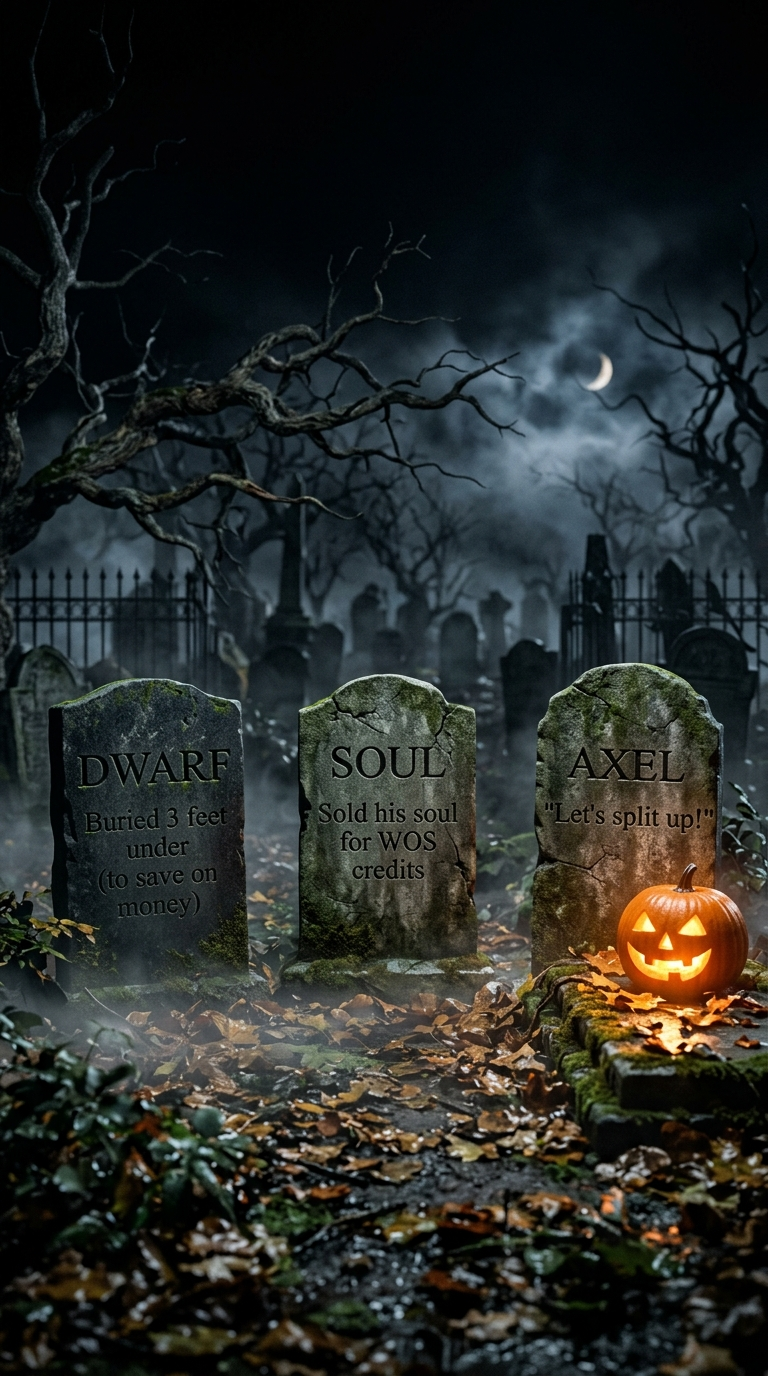
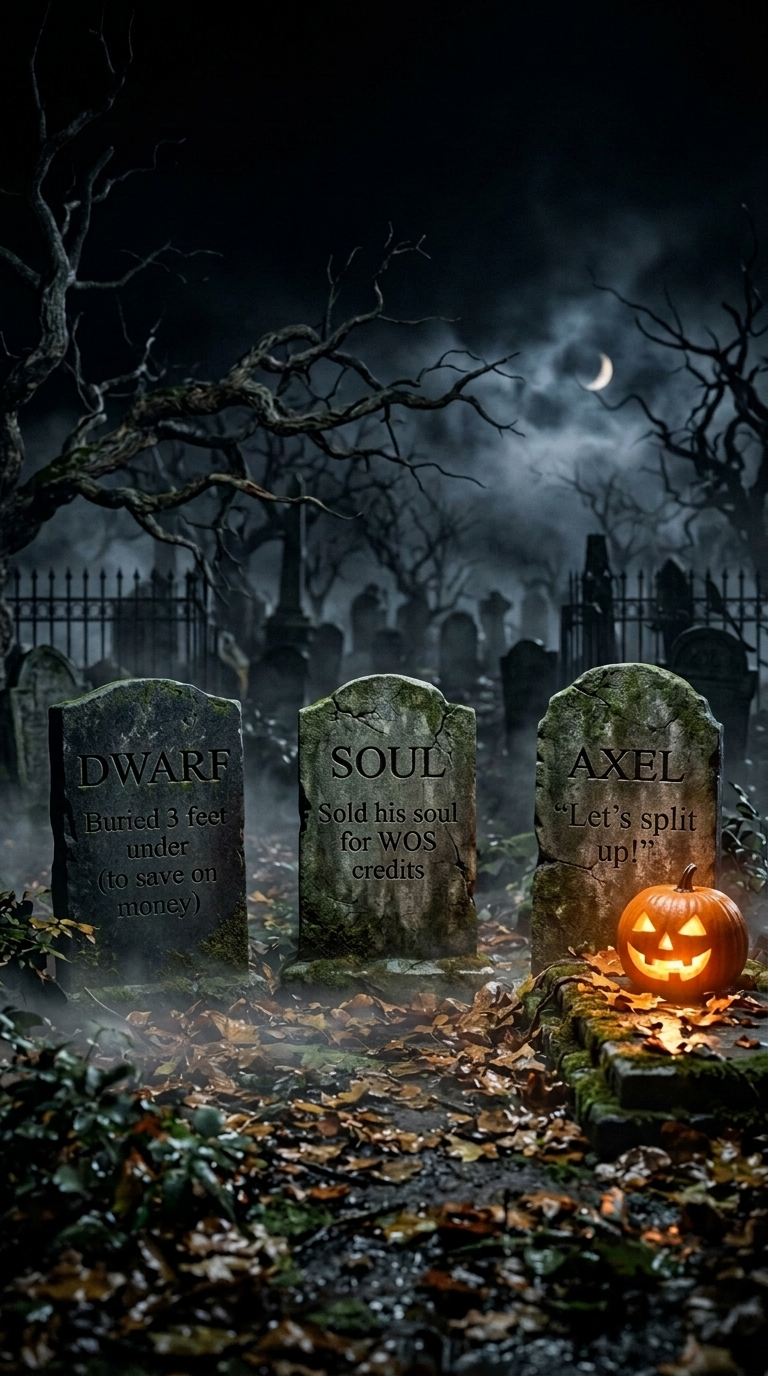
v4.9.223 : Wrapped Axel tombstone inscription text across two lines
Mini Summary:

- Wrapped Axel tombstone quote across two lines to prevent right-edge clipping

- Shifted left flank graveyard offset so full epitaph clears central player

- Updated version to v4.9.223 across all app and overlay manifests

Changed region(s): [[0.7188, 0.5625, 0.9375, 0.6562]]

diff --git a/index.html b/index.html
@@ -4,7 +4,7 @@
   <base target="_top">
   <meta charset="UTF-8">
   <meta name="viewport" content="width=device-width, initial-scale=1.0">
-  <title>Brian's Theater v4.9.222 — Virtual Cinema</title>
+  <title>Brian's Theater v4.9.223 — Virtual Cinema</title>
   
   <!-- High-Priority Resource Preconnects for Accelerated Network Delivery -->
   <link rel="preconnect" href="https://image.tmdb.org" crossorigin>
@@ -3943,7 +3943,7 @@
   <!-- 459+ Past Movies Catalog Data is dynamically hydrated asynchronously via ensurePastMoviesCatalogLoaded() without blocking initial render -->
 
   <script>
-    const APP_VERSION = "4.9.222";
+    const APP_VERSION = "4.9.223";
     window.APP_VERSION = APP_VERSION;
     var vaultMovies = [];
     var communityRequests = [];
@@ -5061,6 +5061,10 @@
 
     // App Store Style Release Notes for Brian's Theater
     const APP_STORE_RELEASES = {
+      "4.9.223": [
+        "Wrapped Axel tombstone inscription text cleanly across two lines.",
+        "Fixed right-edge text cutoff behind central stream player."
+      ],
       "4.9.222": [
         "Reduced startup Firebase payload size by 92 percent.",
         "Eliminated duplicate schedule re-rendering loops during initial startup.",

diff --git a/twitch.html b/twitch.html
@@ -197,7 +197,7 @@
     <img 
       src="images/graveyard_flank_left.jpg" 
       alt="Haunted Graveyard Left Wing: Dwarf, Soul, Axel" 
-      class="w-full h-full object-cover object-left opacity-95 filter contrast-105"
+      class="w-full h-full object-cover object-left transform -translate-x-7 opacity-95 filter contrast-105"
     />
     <div class="absolute inset-0 bg-gradient-to-t from-[#020305]/60 via-transparent to-[#020305]/40"></div>
   </div>
@@ -2128,7 +2128,7 @@
     // ==========================================
     // 5. AUTOMATIC VERSION UPDATE DETECTOR
     // ==========================================
-    const TWITCH_OVERLAY_VERSION = "4.9.222";
+    const TWITCH_OVERLAY_VERSION = "4.9.223";
     window.TWITCH_OVERLAY_VERSION = TWITCH_OVERLAY_VERSION;
     let isCheckingForOverlayUpdate = false;
 

diff --git a/sw.js b/sw.js
@@ -1,9 +1,9 @@
-// VERSION: 4.9.222
+// VERSION: 4.9.223
 // Brian's Theater PWA Service Worker
 // Offline Support & Asset Caching for Google / iOS Apps
 // ==========================================
 
-const CACHE_NAME = 'brian-theater-v4.9.222';
+const CACHE_NAME = 'brian-theater-v4.9.223';
 const MEDIA_CACHE_NAME = 'brian-theater-media-v1';
 const STATIC_ASSETS = [
   './manifest.json',

diff --git a/CHANGELOG.md b/CHANGELOG.md
@@ -1,5 +1,11 @@
 # Changelog
  
+## [4.9.223] - 2026-10-19
+
+### What's New
+- Wrapped Axel tombstone inscription text cleanly across two lines.
+- Fixed right-edge text cutoff behind central stream player.
+
 ## [4.9.222] - 2026-10-19
 
 ### What's New
